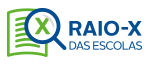
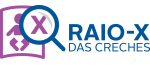
Marca Sistema / Ajuste cor tabela creche

diff --git a/src/main/webapp/views/assets/css/mapaCreches.css b/src/main/webapp/views/assets/css/mapaCreches.css
@@ -410,13 +410,12 @@ input.pesquisa-input
 .fiscalizacao-questionario li {
 	list-style: none;
 	font-size: 12px;
-	margin-bottom: -1px !important;
 	float: left;
 	width: 100%;
-	border-bottom: 1px solid #E9E9E9;
-	padding-bottom: 8px;
-	border-top: 1px solid #E9E9E9;
-	padding-top: 8px;
+	/* border-bottom: 1px solid #E9E9E9; */
+	border-top: 1px solid #fff;
+	padding: 10px;
+	background: #EDF9FF;
 }
 
 .fiscalizacao-questionario li span {
@@ -985,6 +984,15 @@ input.pesquisa-input
 	margin: 30px auto;
 	display: none;
 }
+
+/*Ajustes de cor na tabela*/
+
+.table > thead > tr > th, .table > tbody > tr > th, .table > tfoot > tr > th, .table > thead > tr > td, .table > tbody > tr > td, .table > tfoot > tr > td { border: none;}
+
+tr.accordion-toggle {
+    background: #E9F3FC;
+}
+
 
 @media screen and (max-width: 1024px){
 	
